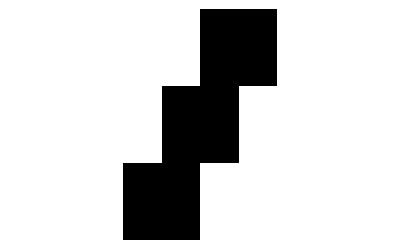
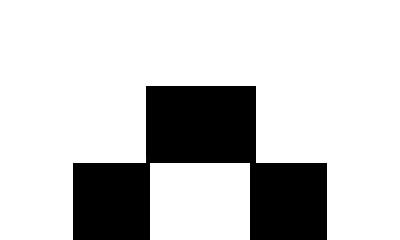
Ladder removed

Changed region(s): [[0.48, 0.0292, 0.84, 1.0], [0.36, 0.35, 0.51, 1.0], [0.18, 0.6708, 0.33, 1.0]]

diff --git a/Web/main.js b/Web/main.js
@@ -11,7 +11,7 @@
   var type = '';
   var gotWinner = false;
   var playerNames = ["Player 1","Player 2"];
-  var ip = '128.237.202.46';
+  var ip = '128.237.167.45';
   window.setInterval(function(){ 
 	  $.get('http://'+ip+':5000/getCompleteCount', function(path) {
 	  		myObject = JSON.parse(path);

diff --git a/ShapeBuilder.py b/ShapeBuilder.py
@@ -25,12 +25,12 @@ class ShapeBuilder():
     CUBE_SIZE = 45
     ERROR_MARGIN = 5
     ANGLE_MARGIN = 15
-    TOTAL_IMAGES = 8
+    TOTAL_IMAGES = 7
     HAPPY_ANIMS = ["anim_freeplay_reacttoface_sayname_01","anim_memorymatch_successhand_cozmo_02","anim_rtpmemorymatch_yes_01","anim_rtpmemorymatch_yes_04"]
     SAD_ANIMS = ["anim_bored_getout_02","anim_reacttoblock_frustrated_01","anim_bored_event_02"]
     WIN_ANIM = "anim_memorymatch_successhand_cozmo_04"
     BORED_ANIM = []
-    SERVER_IP = "128.237.202.46:5000"
+    SERVER_IP = "128.237.167.45:5000"
 
     isConnectedToServer = False
     playerNumber = -1;
@@ -292,18 +292,18 @@ class ShapeBuilder():
                 if(abs(xz[0][0] - xz[2][0]) < self.ERROR_MARGIN and abs(xz[1][0] - xz[0][0]) > self.CUBE_SIZE - self.ERROR_MARGIN and abs(xz[1][0] - xz[0][0]) < self.CUBE_SIZE + self.ERROR_MARGIN):
                     return True
 
-        elif self.currentImage == 7:    # Staircase
-            xz = [];
-            xz.append((self.positions[0].z, self.positions[0].y))
-            xz.append((self.positions[1].z, self.positions[1].y))
-            xz.append((self.positions[2].z, self.positions[2].y))
+        # elif self.currentImage == 7:    # Staircase
+        #     xz = [];
+        #     xz.append((self.positions[0].z, self.positions[0].y))
+        #     xz.append((self.positions[1].z, self.positions[1].y))
+        #     xz.append((self.positions[2].z, self.positions[2].y))
+        #
+        #     xz.sort(key=lambda x: x[1])
+        #     if (abs(xz[1][1] - xz[0][1]) > (self.CUBE_SIZE * 0.5) - self.ERROR_MARGIN and abs(xz[1][1] - xz[0][1]) < (self.CUBE_SIZE * 0.5) + self.ERROR_MARGIN and abs(xz[2][1] - xz[1][1]) > (self.CUBE_SIZE * 0.5) - self.ERROR_MARGIN and abs(xz[2][1] - xz[1][1]) < (self.CUBE_SIZE*0.5) + self.ERROR_MARGIN):
+        #         if(abs(xz[1][0] - xz[2][0]) > self.CUBE_SIZE - self.ERROR_MARGIN and abs(xz[1][0] - xz[2][0]) < self.CUBE_SIZE + self.ERROR_MARGIN and abs(xz[1][0] - xz[0][0]) > self.CUBE_SIZE - self.ERROR_MARGIN and abs(xz[1][0] - xz[0][0]) < self.CUBE_SIZE + self.ERROR_MARGIN):
+        #             return True
 
-            xz.sort(key=lambda x: x[1])
-            if (abs(xz[1][1] - xz[0][1]) > (self.CUBE_SIZE * 0.5) - self.ERROR_MARGIN and abs(xz[1][1] - xz[0][1]) < (self.CUBE_SIZE * 0.5) + self.ERROR_MARGIN and abs(xz[2][1] - xz[1][1]) > (self.CUBE_SIZE * 0.5) - self.ERROR_MARGIN and abs(xz[2][1] - xz[1][1]) < (self.CUBE_SIZE*0.5) + self.ERROR_MARGIN):
-                if(abs(xz[1][0] - xz[2][0]) > self.CUBE_SIZE - self.ERROR_MARGIN and abs(xz[1][0] - xz[2][0]) < self.CUBE_SIZE + self.ERROR_MARGIN and abs(xz[1][0] - xz[0][0]) > self.CUBE_SIZE - self.ERROR_MARGIN and abs(xz[1][0] - xz[0][0]) < self.CUBE_SIZE + self.ERROR_MARGIN):
-                    return True
-
-        elif self.currentImage == 8:    # Triangle with center at an angle
+        elif self.currentImage == 7:    # Triangle with center at an angle
             xz = [];
             xz.append((self.positions[0].z, self.positions[0].y, self.rotations[0].angle_z.degrees))
             xz.append((self.positions[1].z, self.positions[1].y, self.rotations[1].angle_z.degrees))
